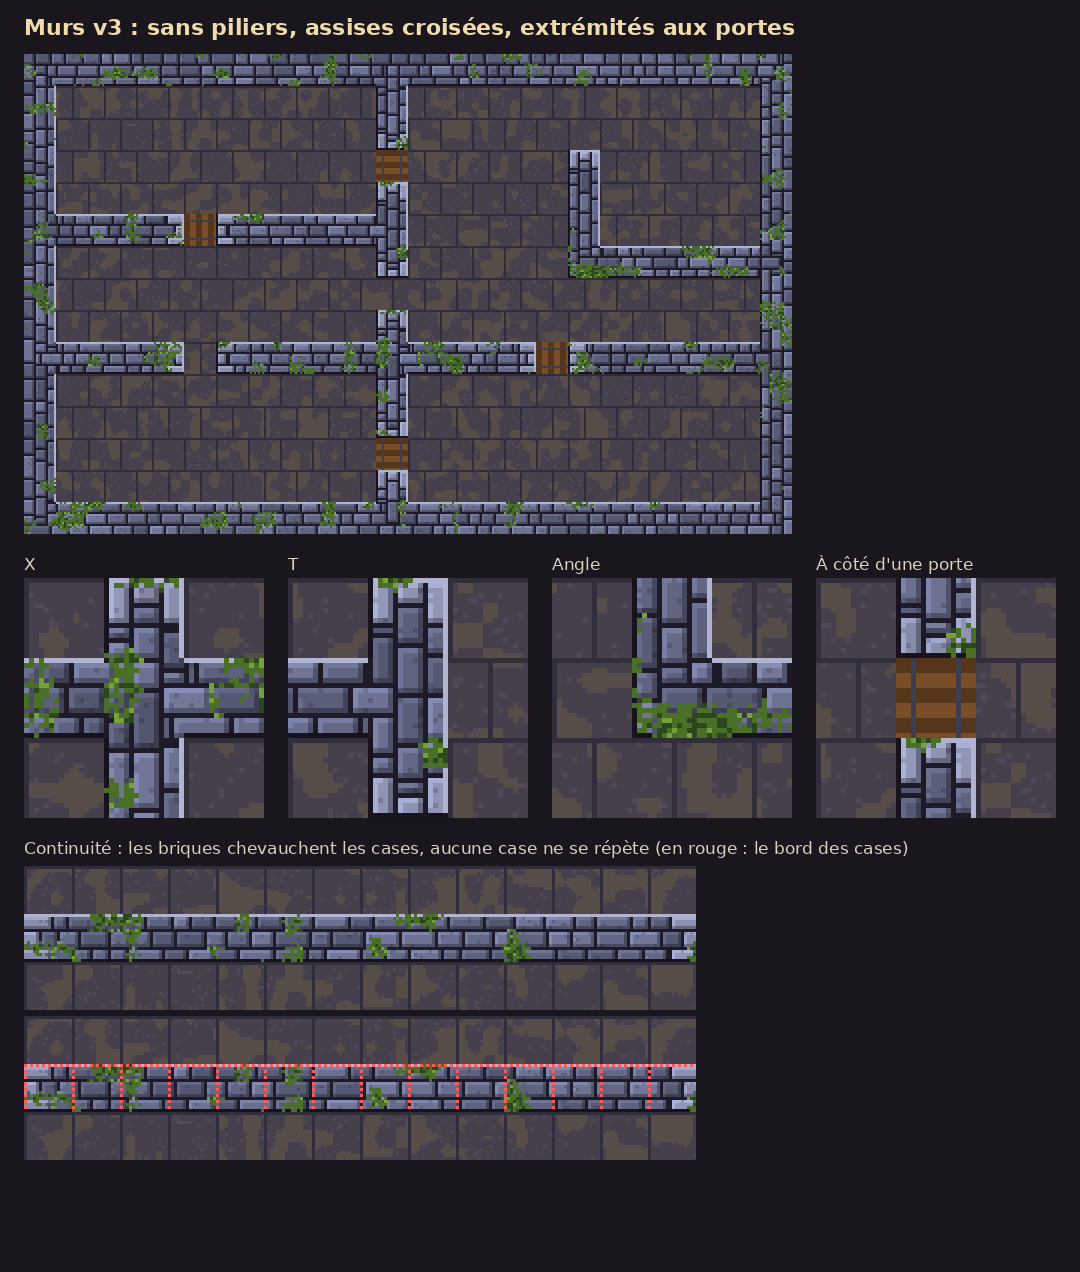
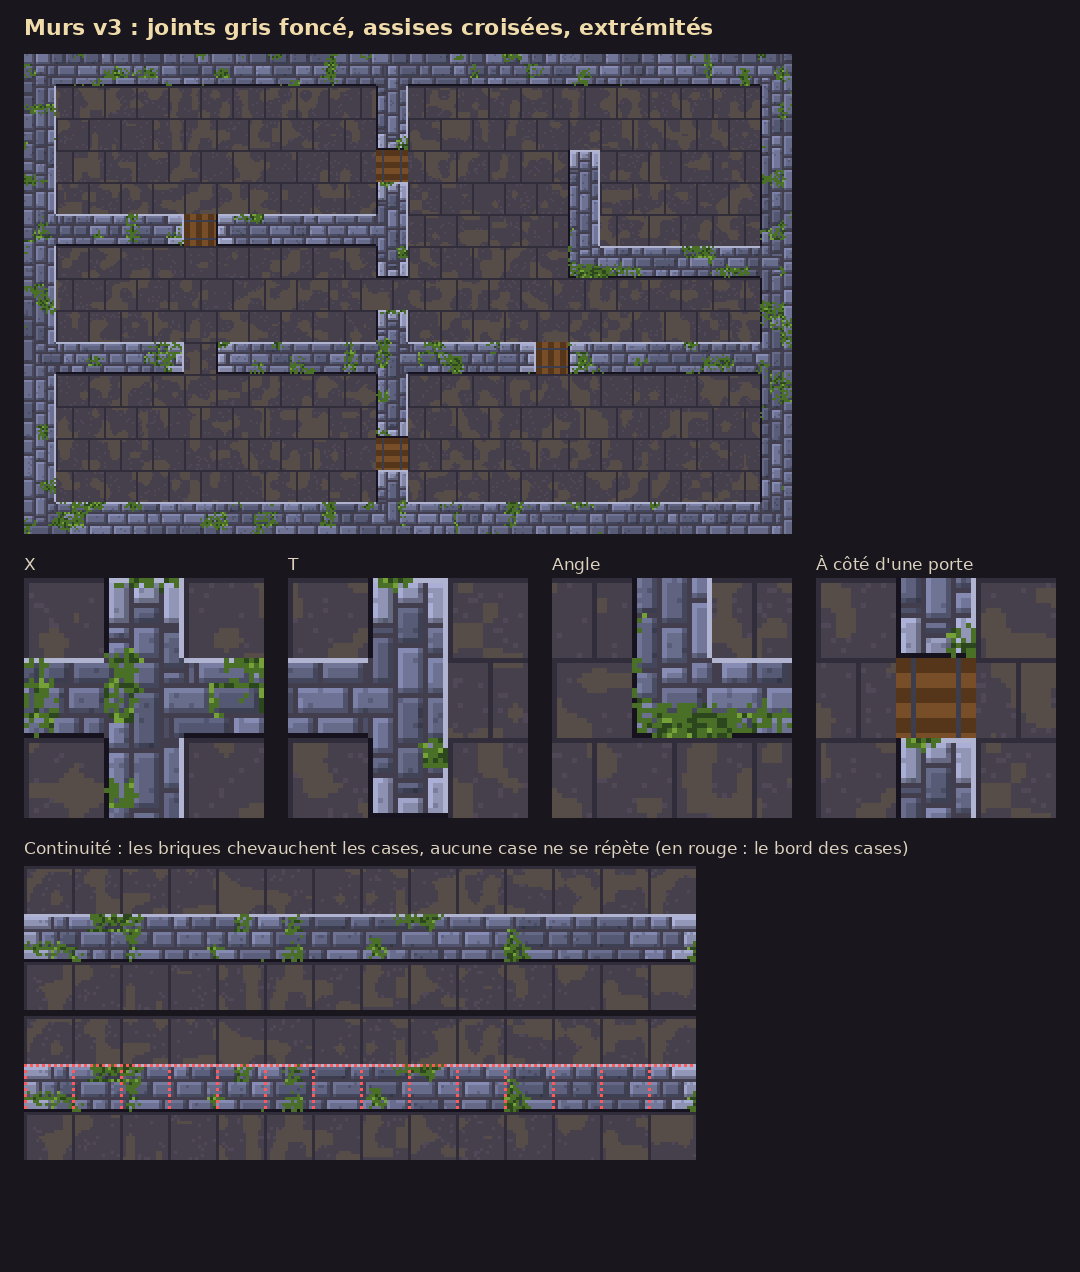
Un truc fun par section (cloche ou porte du compteur) ; le compteur dit un nombre par tour ; murs v3 : joints gris foncé
Claude-Session: https://claude.ai/code/session_01TLwcm2eofnSYjAtsLj84z7

diff --git a/demo/index.html b/demo/index.html
@@ -1625,15 +1625,15 @@
     spiderInWebRoomChance: 0.6,
     /** Trainards (tonneaux, caisses) : nombre par étage, dans les salles ordinaires, contre un mur. */
     clutterPerFloor: [1, 4],
-    /** Cloche d'alarme (Thomas, 2026-11-12) : sur tant d'étages (C) ; la sonner ajoute tant d'alerte (un palier, C). */
-    bellChance: 0.3,
-    /** Porte du Kobold qui compte (Thomas, 2026-11-12) : sur tant d'étages (C) ; il compte tous les tant de tours quand
-     *  le héros est à tant de cases ou moins ; son nombre de départ ; le doigt dans l'œil fait tant de dégâts. */
-    counterDoorChance: 0.25,
-    counterEvery: 3,
+    /** UN TRUC FUN PAR SECTION (Thomas, 2026-11-12) : sur un des étages 1 à `funMaxFloor` de chaque section, tiré au
+     *  début de la partie, la cloche d'alarme OU la porte du Kobold qui compte (une chance sur deux). */
+    funMaxFloor: 3,
+    /** Porte du Kobold qui compte (Thomas, 2026-11-12) : il dit son nombre une fois par tour (« 17… 17… 17… », un à la
+     *  fois) quand le héros est à tant de cases ou moins ; son nombre de départ ; le doigt dans l'œil fait tant de dégâts. */
     counterHearing: 5,
     counterStart: 13,
     counterPoke: 1,
+    /** Cloche d'alarme : la sonner ajoute tant d'alerte (un palier, C). */
     bellAlarm: 25,
     /** Agilité (Thomas, 2026-11-11) : +1 CA d'esquive tous les `agilityPerDodge` points ; un piège sous les pieds du héros
      * s'évite sur d20 + agilité contre `trapDodgeDc` (un 20 l'évite toujours, un 1 jamais). */
@@ -2672,7 +2672,7 @@
     out.push(...placed);
     return true;
   }
-  function furnishFloor(floor, seed, depth = 1) {
+  function furnishFloor(floor, seed, depth = 1, bell = false) {
     const rng = new Rng(seed ^ 1867128211);
     const furniture = [];
     const themes = [];
@@ -2691,7 +2691,7 @@
     }
     const special = new Set(themes.map((t) => t.room));
     placeClutter(floor, new Rng(seed ^ 473587319), furniture, special);
-    placeBell(floor, new Rng(seed ^ 1529945725), furniture, special);
+    if (bell) placeBell(floor, new Rng(seed ^ 1529945725), furniture, special);
     if (depth >= RULES.websFromDepth) placeWebs(floor, new Rng(seed ^ 1046183193), furniture, special);
     return { furniture, themes };
   }
@@ -3006,7 +3006,6 @@
     }
   }
   function placeBell(floor, rng, furniture, special) {
-    if (!rng.chance(RULES.bellChance)) return;
     const { map } = floor;
     const before = reachable(map, floor.start);
     const specials = floor.specials ?? [];
@@ -3024,8 +3023,9 @@
         continue;
       }
       furniture.push({ x, y, kind: "bell" });
-      return;
+      return true;
     }
+    return false;
   }
   function placeWebs(floor, rng, furniture, special) {
     floor.rooms.forEach((room, index) => {
@@ -4161,7 +4161,7 @@
         const bossFloor = !sandboxFloor && this.isBossDepth(depth) ? buildBossFloor(seed) : null;
         const floor = sandboxFloor ?? bossFloor ?? generateFloor(seed, this.floorConfig);
         if (depth > 1) floor.map.set(floor.start.x, floor.start.y, Tile.StairsUp);
-        const furnished = sandboxFloor ? { furniture: sandboxFloor.furniture, themes: sandboxFloor.themes } : bossFloor ? { furniture: bossFloor.furniture, themes: [] } : RULES.themedRoomsInDungeon ? furnishFloor(floor, seed, depth) : { furniture: [], themes: [] };
+        const furnished = sandboxFloor ? { furniture: sandboxFloor.furniture, themes: sandboxFloor.themes } : bossFloor ? { furniture: bossFloor.furniture, themes: [] } : RULES.themedRoomsInDungeon ? furnishFloor(floor, seed, depth, this.funOf(depth) === "bell") : { furniture: [], themes: [] };
         if (!sandboxFloor && !bossFloor && RULES.groundsInDungeon) placeGrounds(floor, seed, depth);
         const motifs = sandboxFloor ? sandboxFloor.motifs : bossFloor ? [] : placeMotifs(floor, seed);
         state = {
@@ -4195,7 +4195,13 @@
         if (bossFloor) for (const sec of bossFloor.secrets) state.secrets.push({ ...sec, found: false });
         if (sandboxFloor) state.merchant = makeMerchant(sandboxFloor.merchant, sandboxFloor.merchant.home, SANDBOX_WARES, seed);
         else if (!bossFloor && (depth - 1) % 5 === MERCHANT.floorInSection - 1) state.merchant = this.placeMerchant(floor, seed, depth) ?? void 0;
-        if (!bossFloor) state.counter = this.placeCounterDoor(floor, state, seed, !!sandboxFloor) ?? void 0;
+        if (!bossFloor && (sandboxFloor || this.funOf(depth) === "counter")) {
+          state.counter = this.placeCounterDoor(floor, state, seed, !!sandboxFloor) ?? void 0;
+          if (!state.counter && !sandboxFloor) {
+            const special = new Set((state.themes ?? []).map((t) => t.room));
+            placeBell(floor, new Rng(seed ^ 1529945725), state.furniture ?? [], special);
+          }
+        }
         this.floors.set(depth, state);
       }
       this.useFloor(state, depth);
@@ -4317,7 +4323,6 @@
         map.set(13, 28, Tile.DoorLocked);
         return { x: 13, y: 28, inside: { x: 13, y: 29 }, n: RULES.counterStart, heard: false, opened: false };
       }
-      if (!rng.chance(RULES.counterDoorChance)) return null;
       const inRoom = (p) => floor.rooms.findIndex((r) => p.x >= r.x && p.x < r.x + r.w && p.y >= r.y && p.y < r.y + r.h);
       const doors = [];
       for (let y = 1; y < map.height - 1; y++) for (let x = 1; x < map.width - 1; x++) if (map.get(x, y) === Tile.DoorClosed) doors.push({ x, y });
@@ -4334,6 +4339,18 @@
       }
       return null;
     }
+    /**
+     * UN TRUC FUN PAR SECTION (Thomas, 2026-11-12) : sur quel étage de la section, et lequel (cloche ou porte du
+     * compteur). Tiré une fois pour toutes d'après la graine de la partie ; jamais à l'étage du boss, ni en salle d'essai.
+     */
+    funOf(depth) {
+      if (this.sandbox && depth === 1) return null;
+      const section = Math.floor((depth - 1) / RULES.floorsPerSection);
+      const rng = new Rng((this.runSeed ^ Math.imul(section + 1, 2654435761)) >>> 0);
+      const floor = section * RULES.floorsPerSection + rng.int(1, RULES.funMaxFloor);
+      if (floor !== depth) return null;
+      return rng.chance(0.5) ? "bell" : "counter";
+    }
     /** La porte du compteur à cette case (encore fermée), s'il y en a une. */
     counterAt(x, y) {
       const c = this.current.counter;
@@ -4344,7 +4361,7 @@
       const c = this.current.counter;
       if (!c || c.opened) return;
       const d = Math.max(Math.abs(c.x - this.hero.x), Math.abs(c.y - this.hero.y));
-      if (d > RULES.counterHearing || this.turn % RULES.counterEvery !== 0) return;
+      if (d > RULES.counterHearing) return;
       this.events.push({ type: "counter", what: "count", n: c.n, x: c.x, y: c.y, first: !c.heard });
       c.heard = true;
     }
@@ -17394,10 +17411,10 @@
       renderer.addFloatingText(e.actor.x, e.actor.y, "!", "#ffd75e");
       sfx.play("notice");
     } else if (e.type === "counter") {
-      if (e.what === "count") renderer.addFloatingText(e.x, e.y, `${e.n}\u2026 ${e.n}\u2026 ${e.n}\u2026`, "#c8c0d4");
+      if (e.what === "count") renderer.addFloatingText(e.x, e.y, `${e.n}\u2026`, "#c8c0d4");
       else if (e.what === "poke") {
         renderer.addFloatingText(game.hero.x, game.hero.y, "A\xEFe ! L'\u0153il !", "#ff6b7a");
-        renderer.addFloatingText(e.x, e.y, `${e.n}\u2026 ${e.n}\u2026 ${e.n}\u2026`, "#c8c0d4");
+        renderer.addFloatingText(e.x, e.y, `${e.n}\u2026`, "#c8c0d4");
         renderer.heroHurt();
         shownHp = game.hero.hp;
         sfx.play("hurt");

diff --git a/src/core/game.ts b/src/core/game.ts
@@ -13,7 +13,7 @@ import { generateFloor, Room } from "../world/generator";
 import { buildSandbox, SANDBOX_LAYOUT, SandboxFloor } from "../world/sandbox";
 import { BossFloor, buildBossFloor } from "../world/bossFloor";
 import { bigStep, cellsOf, gapBetween, occupies, sizeOf } from "./boss";
-import { furnishFloor, Furniture, furnitureCells, reachable } from "../world/furnish";
+import { furnishFloor, Furniture, furnitureCells, placeBell, reachable } from "../world/furnish";
 import { FURNITURE_KINDS } from "../data/themedRooms";
 import { Motif, placeGrounds, placeMotifs } from "../world/grounds";
 import { GameMap, Point, Tile } from "../world/map";
@@ -215,7 +215,7 @@ export class Game {
         : bossFloor
           ? { furniture: bossFloor.furniture, themes: [] }
           : RULES.themedRoomsInDungeon
-          ? furnishFloor(floor, seed, depth)
+          ? furnishFloor(floor, seed, depth, this.funOf(depth) === "bell")
           : { furniture: [], themes: [] };
       // Gravier et flaques : à la main en salle d'essai ; dans le donjon, quelques-uns par étage.
       if (!sandboxFloor && !bossFloor && RULES.groundsInDungeon) placeGrounds(floor, seed, depth);
@@ -251,7 +251,14 @@ export class Game {
       // Le Colporteur : dans la salle d'essai, et au 4e étage de chaque section (Thomas, 2026-11-12).
       if (sandboxFloor) state.merchant = makeMerchant(sandboxFloor.merchant, sandboxFloor.merchant.home, SANDBOX_WARES, seed);
       else if (!bossFloor && (depth - 1) % 5 === MERCHANT.floorInSection - 1) state.merchant = this.placeMerchant(floor, seed, depth) ?? undefined;
-      if (!bossFloor) state.counter = this.placeCounterDoor(floor, state, seed, !!sandboxFloor) ?? undefined;
+      if (!bossFloor && (sandboxFloor || this.funOf(depth) === "counter")) {
+        state.counter = this.placeCounterDoor(floor, state, seed, !!sandboxFloor) ?? undefined;
+        // Pas de porte qui convienne : la cloche prend sa place (il y a toujours un truc fun dans la section).
+        if (!state.counter && !sandboxFloor) {
+          const special = new Set((state.themes ?? []).map((t) => t.room));
+          placeBell(floor, new Rng(seed ^ 0x5b311e7d), state.furniture ?? [], special);
+        }
+      }
       this.floors.set(depth, state);
     }
     this.useFloor(state, depth);
@@ -383,7 +390,6 @@ export class Game {
       map.set(13, 28, Tile.DoorLocked);
       return { x: 13, y: 28, inside: { x: 13, y: 29 }, n: RULES.counterStart, heard: false, opened: false };
     }
-    if (!rng.chance(RULES.counterDoorChance)) return null;
     const inRoom = (p: Point) => floor.rooms.findIndex((r) => p.x >= r.x && p.x < r.x + r.w && p.y >= r.y && p.y < r.y + r.h);
     const doors: Point[] = [];
     for (let y = 1; y < map.height - 1; y++) for (let x = 1; x < map.width - 1; x++) if (map.get(x, y) === Tile.DoorClosed) doors.push({ x, y });
@@ -401,6 +407,19 @@ export class Game {
     return null;
   }
 
+  /**
+   * UN TRUC FUN PAR SECTION (Thomas, 2026-11-12) : sur quel étage de la section, et lequel (cloche ou porte du
+   * compteur). Tiré une fois pour toutes d'après la graine de la partie ; jamais à l'étage du boss, ni en salle d'essai.
+   */
+  funOf(depth: number): "bell" | "counter" | null {
+    if (this.sandbox && depth === 1) return null;
+    const section = Math.floor((depth - 1) / RULES.floorsPerSection);
+    const rng = new Rng((this.runSeed ^ Math.imul(section + 1, 0x9e3779b1)) >>> 0);
+    const floor = section * RULES.floorsPerSection + rng.int(1, RULES.funMaxFloor);
+    if (floor !== depth) return null;
+    return rng.chance(0.5) ? "bell" : "counter";
+  }
+
   /** La porte du compteur à cette case (encore fermée), s'il y en a une. */
   counterAt(x: number, y: number): CounterDoor | null {
     const c = this.current.counter;
@@ -412,7 +431,7 @@ export class Game {
     const c = this.current.counter;
     if (!c || c.opened) return;
     const d = Math.max(Math.abs(c.x - this.hero.x), Math.abs(c.y - this.hero.y));
-    if (d > RULES.counterHearing || this.turn % RULES.counterEvery !== 0) return;
+    if (d > RULES.counterHearing) return;
     this.events.push({ type: "counter", what: "count", n: c.n, x: c.x, y: c.y, first: !c.heard });
     c.heard = true;
   }

diff --git a/tests/sim.test.ts b/tests/sim.test.ts
@@ -960,23 +960,35 @@ test("cloche d'alarme : la sonner fait monter l'alerte d'un palier, et le journa
   assert.ok(game.alarm().level >= before + RULES.bellAlarm);
 });
 
-test("cloche d'alarme : posée de temps en temps, jamais dans le passage", () => {
-  let floors = 0;
-  for (let seed = 1; seed <= 120; seed++) {
+test("un truc fun par section : la cloche ou la porte du compteur, sur un seul étage (1 à 3) de chaque section", () => {
+  let bells = 0;
+  let counters = 0;
+  for (let seed = 1; seed <= 200; seed++) {
     const game = new Game(seed);
-    const bell = game.furnitureList().find((f) => f.kind === "bell");
-    if (!bell) continue;
-    floors++;
-    game.monsters.splice(0);
-    const before = game.alarm().level;
-    assert.ok(game.setDestination(bell.x, bell.y, true), "on peut aller à côté de la cloche");
-    for (let i = 0; i < 200 && !game.events.some((e) => e.type === "bell"); i++) {
-      game.events.length = 0;
-      if (!game.tick()) break;
+    for (const section of [0, 1]) {
+      const funs = [1, 2, 3, 4, 5].map((d) => game.funOf(section * 5 + d)).filter((f) => f !== null);
+      assert.equal(funs.length, 1, "un seul truc fun par section");
+      assert.ok([1, 2, 3].some((d) => game.funOf(section * 5 + d) !== null));
     }
-    assert.ok(game.alarm().level >= before + RULES.bellAlarm, `étage ${seed} : l'alerte monte`);
+    const fun = game.funOf(1);
+    const bell = game.furnitureList().find((f) => f.kind === "bell");
+    const counter = (game as unknown as { current: { counter?: unknown } }).current.counter;
+    if (fun === null) assert.ok(!bell && !counter, "pas de truc fun hors de son étage");
+    if (fun === "counter") assert.ok(counter || bell, "la porte du compteur, ou la cloche à sa place");
+    if (fun === "bell" && bell) {
+      bells++;
+      game.monsters.splice(0);
+      const before = game.alarm().level;
+      assert.ok(game.setDestination(bell.x, bell.y, true), "on peut aller à côté de la cloche");
+      for (let i = 0; i < 200 && !game.events.some((e) => e.type === "bell"); i++) {
+        game.events.length = 0;
+        if (!game.tick()) break;
+      }
+      assert.ok(game.alarm().level >= before + RULES.bellAlarm, `partie ${seed} : l'alerte monte`);
+    }
+    if (counter) counters++;
   }
-  assert.ok(floors > 15 && floors < 70, `cloches sur ${floors} étages sur 120`);
+  assert.ok(bells > 10 && counters > 10, `cloches ${bells}, compteurs ${counters}`);
 });
 
 test("porte du Kobold qui compte : il compte, met le doigt dans l'œil, et sort quand la porte cède (Thomas, 2026-11-12)", () => {

diff --git a/src/world/furnish.ts b/src/world/furnish.ts
@@ -210,7 +210,7 @@ export function furnishDortoir(floor: Floor, room: Room, rng: Rng, out: Furnitur
  * dans des salles ordinaires assez grandes ; puis des trainards (tonneaux, caisses) dans les salles ordinaires, et dès
  * l'étage 3 des toiles dans les coins des salles sans torche. Hasards à part.
  */
-export function furnishFloor(floor: Floor, seed: number, depth = 1): { furniture: Furniture[]; themes: RoomTheme[] } {
+export function furnishFloor(floor: Floor, seed: number, depth = 1, bell = false): { furniture: Furniture[]; themes: RoomTheme[] } {
   const rng = new Rng(seed ^ 0x6f4a1d93);
   const furniture: Furniture[] = [];
   const themes: RoomTheme[] = [];
@@ -231,7 +231,7 @@ export function furnishFloor(floor: Floor, seed: number, depth = 1): { furniture
   }
   const special = new Set(themes.map((t) => t.room));
   placeClutter(floor, new Rng(seed ^ 0x1c3a5e77), furniture, special);
-  placeBell(floor, new Rng(seed ^ 0x5b311e7d), furniture, special);
+  if (bell) placeBell(floor, new Rng(seed ^ 0x5b311e7d), furniture, special);
   if (depth >= RULES.websFromDepth) placeWebs(floor, new Rng(seed ^ 0x3e5b7d19), furniture, special);
   return { furniture, themes };
 }
@@ -611,11 +611,10 @@ export function placeClutter(floor: Floor, rng: Rng, furniture: Furniture[], spe
 }
 
 /**
- * La cloche d'alarme (Thomas, 2026-11-12), de temps en temps : sur son support de bois, au milieu d'une salle
+ * La cloche d'alarme (Thomas, 2026-11-12), le « truc fun » de certaines sections : sur son support de bois, au milieu d'une salle
  * ordinaire, loin des ouvertures. Elle bloque sa case (rien ne devient inaccessible) et brûle.
  */
-export function placeBell(floor: Floor, rng: Rng, furniture: Furniture[], special: Set<number>): void {
-  if (!rng.chance(RULES.bellChance)) return;
+export function placeBell(floor: Floor, rng: Rng, furniture: Furniture[], special: Set<number>): boolean {
   const { map } = floor;
   const before = reachable(map, floor.start);
   const specials = (floor as Floor & { specials?: { room: Room }[] }).specials ?? [];
@@ -633,8 +632,9 @@ export function placeBell(floor: Floor, rng: Rng, furniture: Furniture[], specia
       continue;
     }
     furniture.push({ x, y, kind: "bell" });
-    return;
+    return true;
   }
+  return false;
 }
 
 /**

diff --git a/src/data/rules.ts b/src/data/rules.ts
@@ -135,15 +135,15 @@ export const RULES = {
   spiderInWebRoomChance: 0.6,
   /** Trainards (tonneaux, caisses) : nombre par étage, dans les salles ordinaires, contre un mur. */
   clutterPerFloor: [1, 4] as [number, number],
-  /** Cloche d'alarme (Thomas, 2026-11-12) : sur tant d'étages (C) ; la sonner ajoute tant d'alerte (un palier, C). */
-  bellChance: 0.3,
-  /** Porte du Kobold qui compte (Thomas, 2026-11-12) : sur tant d'étages (C) ; il compte tous les tant de tours quand
-   *  le héros est à tant de cases ou moins ; son nombre de départ ; le doigt dans l'œil fait tant de dégâts. */
-  counterDoorChance: 0.25,
-  counterEvery: 3,
+  /** UN TRUC FUN PAR SECTION (Thomas, 2026-11-12) : sur un des étages 1 à `funMaxFloor` de chaque section, tiré au
+   *  début de la partie, la cloche d'alarme OU la porte du Kobold qui compte (une chance sur deux). */
+  funMaxFloor: 3,
+  /** Porte du Kobold qui compte (Thomas, 2026-11-12) : il dit son nombre une fois par tour (« 17… 17… 17… », un à la
+   *  fois) quand le héros est à tant de cases ou moins ; son nombre de départ ; le doigt dans l'œil fait tant de dégâts. */
   counterHearing: 5,
   counterStart: 13,
   counterPoke: 1,
+  /** Cloche d'alarme : la sonner ajoute tant d'alerte (un palier, C). */
   bellAlarm: 25,
   /** Agilité (Thomas, 2026-11-11) : +1 CA d'esquive tous les `agilityPerDodge` points ; un piège sous les pieds du héros
    * s'évite sur d20 + agilité contre `trapDodgeDc` (un 20 l'évite toujours, un 1 jamais). */

diff --git a/src/main.ts b/src/main.ts
@@ -481,10 +481,11 @@ function reveal(e: GameEvent): void {
     sfx.play("notice");
   } else if (e.type === "counter") {
     // Le Kobold qui compte derrière sa porte (Thomas, 2026-11-12).
-    if (e.what === "count") renderer.addFloatingText(e.x, e.y, `${e.n}… ${e.n}… ${e.n}…`, "#c8c0d4");
+    // Un nombre par tour, toujours le même (Thomas, 2026-11-12 : « 17, 17, 17 plutôt que plusieurs à la fois »).
+    if (e.what === "count") renderer.addFloatingText(e.x, e.y, `${e.n}…`, "#c8c0d4");
     else if (e.what === "poke") {
       renderer.addFloatingText(game.hero.x, game.hero.y, "Aïe ! L'œil !", "#ff6b7a");
-      renderer.addFloatingText(e.x, e.y, `${e.n}… ${e.n}… ${e.n}…`, "#c8c0d4");
+      renderer.addFloatingText(e.x, e.y, `${e.n}…`, "#c8c0d4");
       renderer.heroHurt();
       shownHp = game.hero.hp;
       sfx.play("hurt");

diff --git a/art/murs_v3.py b/art/murs_v3.py
@@ -31,7 +31,7 @@ PLAN = [
 ]
 
 COL = {
-    "mortar": (30, 27, 40), "hi": (176, 180, 208), "sh": (22, 19, 30),
+    "mortar": (66, 62, 78), "hi": (176, 180, 208), "sh": (22, 19, 30),
     "m0": (44, 70, 30), "m1": (74, 112, 40), "m2": (118, 160, 56),
     "f1": (70, 63, 76), "fl": (50, 45, 58), "dust": (86, 76, 72), "f2": (80, 72, 86),
     "wood": (120, 78, 40), "wood2": (86, 54, 26), "iron": (60, 62, 78), "gold": (240, 192, 80), "dark": (12, 10, 16),
@@ -303,7 +303,7 @@ def main():
     out = Image.new("RGB", (Wd, Hd), (26, 22, 30))
     d = ImageDraw.Draw(out)
     y = 14
-    d.text((pad, y), "Murs v3 : sans piliers, assises croisées, extrémités aux portes", font=font, fill=(240, 220, 170))
+    d.text((pad, y), "Murs v3 : joints gris foncé, assises croisées, extrémités", font=font, fill=(240, 220, 170))
     y += 40
     out.paste(big, (pad, y))
     y += big.height + 20
